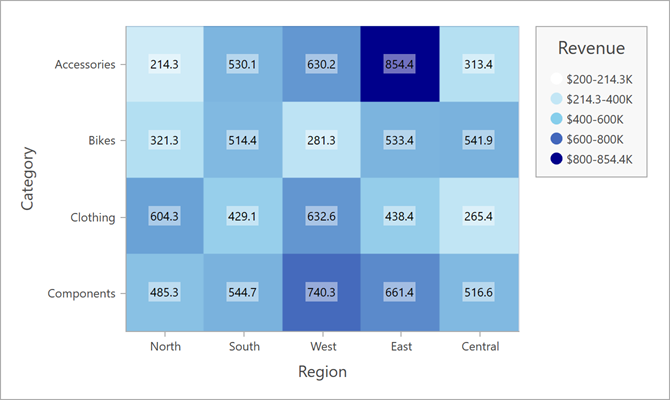
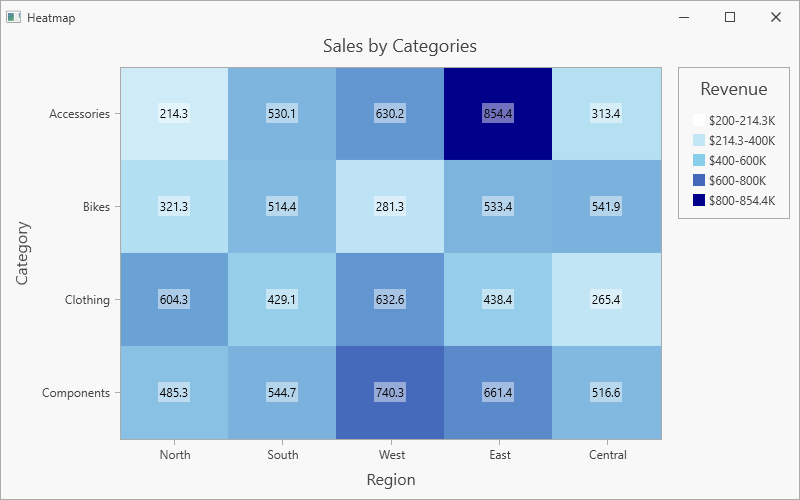
add title

diff --git a/CS/MainWindow.xaml b/CS/MainWindow.xaml
@@ -6,7 +6,7 @@
     xmlns:dxc="http://schemas.devexpress.com/winfx/2008/xaml/charts"
     xmlns:local="clr-namespace:HeatmapMatrixData"
     x:Class="HeatmapMatrixData.MainWindow"
-    Title="MainWindow" Height="500" Width="800">
+    Title="Heatmap" Height="500" Width="800">
     <Grid>
         <dxh:HeatmapControl>
             <dxh:HeatmapControl.DataContext>
@@ -17,6 +17,9 @@
                                           YArguments="{Binding YArguments}" 
                                           Values="{Binding Values}"/>
             </dxh:HeatmapControl.DataAdapter>
+            <dxh:HeatmapControl.Titles>
+                <dxc:Title Content="Sales by Categories" HorizontalAlignment="Center"/>
+            </dxh:HeatmapControl.Titles>
             <dxh:HeatmapControl.ColorProvider>
                 <dxh:HeatmapRangeColorProvider ApproximateColors="True" 
                                                LegendItemPattern="${V1}-{V2}K">

diff --git a/VB/MainWindow.xaml b/VB/MainWindow.xaml
@@ -17,6 +17,9 @@
                                           YArguments="{Binding YArguments}" 
                                           Values="{Binding Values}"/>
             </dxh:HeatmapControl.DataAdapter>
+            <dxh:HeatmapControl.Titles>
+                <dxc:Title Content="Sales by Categories" HorizontalAlignment="Center"/>
+            </dxh:HeatmapControl.Titles>
             <dxh:HeatmapControl.ColorProvider>
                 <dxh:HeatmapRangeColorProvider ApproximateColors="True" 
                                                LegendItemPattern="${V1}-{V2}K">
